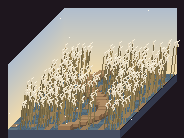
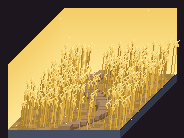
Dream scenes: golden-yellow reed marsh, night amusement park
Claude-Session: https://claude.ai/code/session_01FPZSaKiVNU2zED737yZX4w

diff --git a/tools/render_dream.py b/tools/render_dream.py
@@ -119,10 +119,10 @@ def reeds():
     cx = lambda d: 56 + 22 * math.sin(d / 20.0)
     def ground(x, d):
         n = noise(x, d); a = abs(x - cx(d))
-        if a < 8: return (96, 78, 60)                                              # 데크 밑
-        if noise(int(x // 6), int(d // 6), 4) > .72: return (150 + int(n * 12), 126, 92)   # 진흙 섬
-        return (74 + int(n * 14), 96 + int(n * 14), 112 + int(n * 14)) if int(d // 4 + x // 9) % 3 else (96, 118, 130)   # 얕은 물(결 줄무늬)
-    sc = base((176, 190, 206), (244, 220, 170), ground); rng = random.Random(12)
+        if a < 8: return (112, 84, 48)                                             # 데크 밑
+        if noise(int(x // 6), int(d // 6), 4) > .72: return (182 + int(n * 12), 140, 78)   # 진흙 섬
+        return (150 + int(n * 14), 120 + int(n * 12), 62 + int(n * 10)) if int(d // 4 + x // 9) % 3 else (184, 146, 78)   # 금빛 얕은 물(결 줄무늬)
+    sc = base((244, 206, 104), (255, 232, 150), ground); rng = random.Random(12)
     for d in range(0, D, 5):                                                       # 데크 널빤지
         x = cx(d) - 6
         def plank(x=x, d=d): sc.box(x, d, 12, 4, 2.5, (176, 140, 100), (150, 116, 82), (120, 90, 64), z0=1)
@@ -132,21 +132,62 @@ def reeds():
         if abs(x - cx(d)) < 9.5: continue
         def reed(x=x, d=d, i=i):
             b = sc.P(x, d, 0); h = 22 + int(noise(x, d, 4) * 14); lean = 2 + int(noise(x, d, 9) * 3)
-            stem = ((128, 112, 74), (150, 128, 82), (112, 98, 66))[i % 3]; top = (b[0] + lean, b[1] - h)
+            stem = ((196, 150, 56), (222, 176, 66), (170, 128, 46))[i % 3]; top = (b[0] + lean, b[1] - h)
             sc.d.line([b, (b[0] + lean // 2, b[1] - h // 2), top], fill=stem)
-            for dx, dy, c in ((0, 0, (236, 226, 204)), (1, -1, (250, 244, 228)), (-1, 1, (214, 202, 176)), (2, -2, (246, 238, 216)), (0, 2, (220, 208, 182))): sc.d.point((top[0] + dx, top[1] + dy), fill=c)   # 솜털 이삭
-            sc.d.line([(top[0], top[1] - 1), (top[0] + 1, top[1] + 4)], fill=(232, 220, 196))
+            for dx, dy, c in ((0, 0, (252, 220, 120)), (1, -1, (255, 240, 164)), (-1, 1, (234, 190, 84)), (2, -2, (255, 232, 140)), (0, 2, (240, 204, 100))): sc.d.point((top[0] + dx, top[1] + dy), fill=c)   # 솜털 이삭
+            sc.d.line([(top[0], top[1] - 1), (top[0] + 1, top[1] + 4)], fill=(244, 206, 110))
         sc.jobs.append((d, reed))
     for _ in range(30):                                                            # 날아다니는 솜털
-        X, Y = rng.randrange(8, sc.CW - 8), rng.randrange(8, sc.CH - 12); (sc.px[X, Y] != MARGIN) and sc.d.point((X, Y), fill=(255, 250, 236))
+        X, Y = rng.randrange(8, sc.CW - 8), rng.randrange(8, sc.CH - 12); (sc.px[X, Y] != MARGIN) and sc.d.point((X, Y), fill=(255, 246, 190))
     sc.run(); return sc.img
 
+def park():
+    """밤의 놀이공원: 불 꺼진 회전목마와 천천히 도는 관람차, 전구 줄. 목마 둘레를 도는 둥근 길 = 순환 추격(돌아서 따돌림)."""
+    cx0, cd0 = 56, 52
+    def ground(x, d):
+        r = math.hypot(x - cx0, (d - cd0)); n = noise(x, d)
+        if 25 < r < 38: return (96 + int(n * 8), 88 + int(n * 8), 112)           # 목마를 도는 길(밝은 포장)
+        return (52 + int(n * 8), 48 + int(n * 8), 72) if noise(int(x // 8), int(d // 8)) > .4 else (46, 42, 66)
+    sc = base((30, 22, 64), (112, 70, 120), ground); rng = random.Random(6)
+    for _ in range(60): X, Y = rng.randrange(8, sc.CW - 8), rng.randrange(8, sc.CH - 30); (sc.px[X, Y] != MARGIN) and sc.d.point((X, Y), fill=(255, 246, 220))
+    def wheel():                                                                   # 관람차(뒤 평면): 바퀴, 바큇살, 곤돌라, 다리
+        X, Y = sc.P(82, D, 36); R = 27; sc.d.ellipse([X - R, Y - R, X + R, Y + R], outline=(214, 190, 226)); sc.d.ellipse([X - R + 3, Y - R + 3, X + R - 3, Y + R - 3], outline=(150, 120, 170))
+        for k in range(12):
+            a = k * math.pi / 6 + .2; sc.d.line([(X, Y), (X + R * math.cos(a), Y + R * math.sin(a))], fill=(170, 140, 190))
+            gx, gy = X + R * math.cos(a), Y + R * math.sin(a); c = ((226, 120, 120), (240, 200, 110), (120, 170, 220))[k % 3]; sc.d.rectangle([gx - 2, gy, gx + 2, gy + 4], fill=c)
+        sc.d.line([(X, Y), (X - 14, Y + 40)], fill=(130, 104, 150), width=2); sc.d.line([(X, Y), (X + 14, Y + 40)], fill=(130, 104, 150), width=2); sc.d.ellipse([X - 3, Y - 3, X + 3, Y + 3], fill=(226, 200, 230))
+    sc.jobs.append((D, wheel))
+    def carousel():
+        X, Y = sc.P(cx0, cd0, 0); sc.d.ellipse([X - 22, Y - 11, X + 22, Y + 11], fill=(84, 66, 96)); sc.d.ellipse([X - 20, Y - 12, X + 20, Y + 9], fill=(124, 96, 130))     # 바닥판
+        sc.d.ellipse([X - 20, Y - 15, X + 20, Y + 5], fill=(104, 76, 110))
+        for k in range(8):                                                           # 기둥 + 목마
+            a = k * math.pi / 4; px_, py_ = X + 15 * math.cos(a), Y - 5 + 7 * math.sin(a); sc.d.line([(px_, py_), (px_, py_ - 26)], fill=(226, 200, 130))
+            hy = py_ - 8 - (k % 2) * 4; c = ((236, 226, 220), (226, 150, 150), (170, 190, 226), (240, 216, 130))[k % 4]
+            sc.d.rectangle([px_ - 3, hy, px_ + 3, hy + 4], fill=c); sc.d.rectangle([px_ + 1, hy - 3, px_ + 4, hy], fill=c); sc.d.point((px_ + 3, hy - 2), fill=(40, 30, 40))
+        sc.d.ellipse([X - 22, Y - 36, X + 22, Y - 20], fill=(206, 80, 90))                                         # 지붕(줄무늬 챙)
+        for k in range(8): sc.d.polygon([(X, Y - 52), (X - 22 + k * 44 // 8, Y - 28), (X - 22 + (k + 1) * 44 // 8, Y - 28)], fill=(206, 80, 90) if k % 2 == 0 else (240, 226, 206))
+        sc.d.ellipse([X - 22, Y - 34, X + 22, Y - 22], outline=(236, 214, 150)); sc.d.rectangle([X - 1, Y - 58, X + 1, Y - 52], fill=(236, 214, 150))
+        for k in range(11):                                                          # 지붕 끝 전구(꺼져 있음)
+            a = k * math.pi * 2 / 11; sc.d.point((X + 22 * math.cos(a), Y - 28 + 6 * math.sin(a)), fill=(236, 230, 190))
+    sc.jobs.append((cd0, carousel))
+    def booth(x=12, d=18):
+        sc.box(x, d, 14, 10, 20, (206, 120, 110), (226, 140, 126), (166, 96, 90)); sc.poly([(x + 3, d - .1, 6), (x + 11, d - .1, 6), (x + 11, d - .1, 15), (x + 3, d - .1, 15)], (40, 30, 50))
+        sc.box(x - 1, d - 2, 16, 3, 2, (240, 226, 206), (226, 212, 192), (190, 176, 158), z0=20)
+    sc.jobs.append((18, booth))
+    for (x, d) in ((18, 86), (96, 24), (20, 50), (96, 88)):                          # 가로등과 전구 불빛
+        def lamp(x=x, d=d):
+            b = sc.P(x, d, 0); t_ = sc.P(x, d, 32); sc.d.line([b, t_], fill=(70, 60, 90), width=2); sc.d.ellipse([t_[0] - 3, t_[1] - 3, t_[0] + 3, t_[1] + 3], fill=(255, 226, 150))
+        sc.jobs.append((d, lamp)); sc.glow(x, d, 26, col=(255, 214, 140), power=.35)
+    X, Y = sc.P(90, 46, 0)
+    def balloon(): sc.d.line([(X, Y), (X + 2, Y - 22)], fill=(200, 200, 210)); sc.d.ellipse([X - 5, Y - 36, X + 7, Y - 20], fill=(236, 110, 130))
+    sc.jobs.append((46, balloon)); sc.run(); return sc.img
+
 def main():
-    scenes = {'snow': snow, 'lake': lake, 'grass': grass, 'reeds': reeds, 'library': library, 'stairs': stairs}; imgs = {}
+    scenes = {'snow': snow, 'lake': lake, 'grass': grass, 'reeds': reeds, 'park': park, 'library': library, 'stairs': stairs}; imgs = {}
     for k, f in scenes.items():
         im = f(); imgs[k] = im; im.save(os.path.join(OUT, 'dream_%s.png' % k)); im.resize((im.width * 3, im.height * 3), Image.NEAREST).save(os.path.join(OUT, 'dream_%s_x3.png' % k))
     S = 2; pad = 10; w = imgs['snow'].width * S; h = imgs['snow'].height * S
-    sheet = Image.new('RGB', (w * 3 + pad * 4, h * 2 + pad * 3), (40, 40, 48))
+    sheet = Image.new('RGB', (w * 3 + pad * 4, h * 3 + pad * 4), (40, 40, 48))
     for i, k in enumerate(scenes): sheet.paste(imgs[k].resize((w, h), Image.NEAREST), (pad + (i % 3) * (w + pad), pad + (i // 3) * (h + pad)))
     sheet.save(os.path.join(OUT, 'dream_sheet.png')); print('dream ok', imgs['snow'].size)
 if __name__ == '__main__': main()

diff --git a/docs/superpowers/specs/2026-11-14-stopped-clock-design.md b/docs/superpowers/specs/2026-11-14-stopped-clock-design.md
@@ -414,3 +414,4 @@
 - 모든 장면은 **추격전이 나올 수 있게** 짠다. 구조는 직선(눈 숲), 갈라짐(호수), 엄폐(들판), 미로(도서관), 순환(구름 계단) 중 하나를 쓴다.
 - 시안 5종(`tools/render_dream.py` → `maps/out/dream_<이름>.png`, `dream_sheet.png`): 눈 덮인 숲(이미 나 있는 한 사람의 발자국), 얼어붙은 호수(얼음 아래 아파트 불빛과 지그재그 금), 끝없는 들판(키 큰 풀 속에 홀로 선 문), 거대한 도서관(책장 미로), 구름 위 계단(원을 그리는 계단, 떠다니는 의자·액자).
 - 갈대숲 추가(`dream_reeds.png`): 해 질 녘 얕은 물 위에 나무 데크 길이 갈대 사이로 구불구불 이어진다. 양옆이 막힌 좁은 길 추격 구조. 바람에 누운 갈대와 솜털 이삭이 날린다.
+- 갈대숲은 **황색**(금빛 하늘·금빛 갈대·금빛 물)으로 확정. 밤의 놀이공원 추가(`dream_park.png`): 불 꺼진 회전목마와 둘레를 도는 둥근 길(순환 추격), 뒤쪽의 관람차, 가로등 불빛, 표 파는 곳, 풍선 하나.
